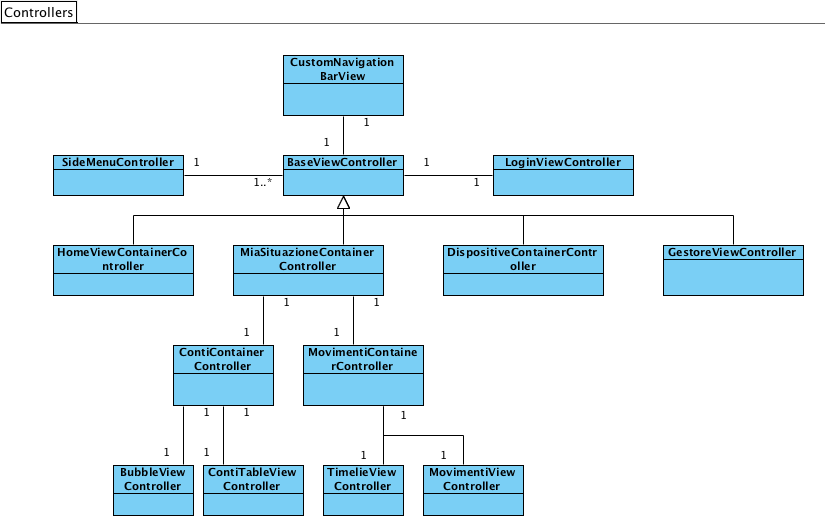
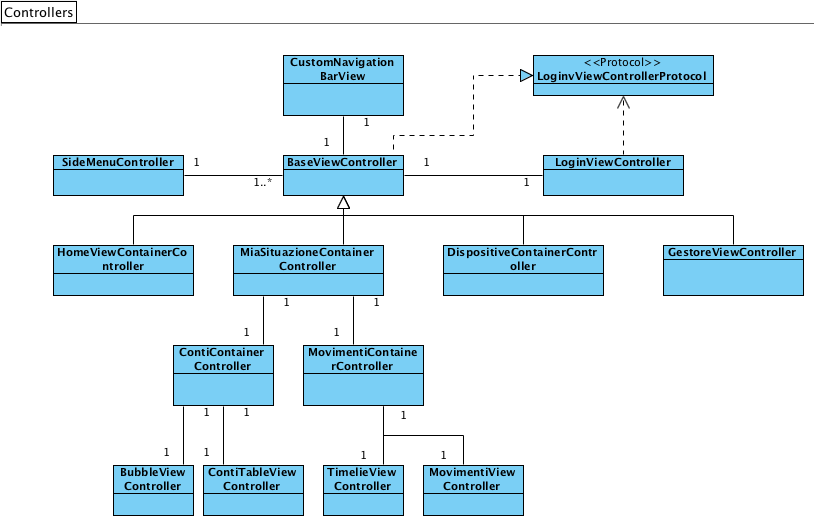
[architettura]

diff --git a/architettura.tex b/architettura.tex
@@ -90,6 +90,12 @@ A tal fine è stato implementato un oggetto singleton, il \texttt{SecurityManage
 
 \subsection{Controller principali}
 Di seguito è riportato il diagramma delle classi rappresentanti i controller principali creati durante la progettazione e lo sviluppo. Per semplicità di esposizione sono stati rappresentati solo i nomi dei controller e le relazioni tra essi.
+\newline
+
+A titolo esemplificativo nel diagramma si può notare che il \texttt{BaseViewController} è il controller principale dal quale gli altri controller ereditano le funzionalità e proprietà generiche. Tale controller si occupa della creazione e visualizzazione degli  elementi grafici comuni a tutte le interfacce (ad esempio la navigation bar personalizzata) e delle logiche necessarie ad ogni controller che lo specializza.
+
+In particolare uno dei compiti principali di questo controller è quello di creare il controller che gestisce l'interfaccia e la logica per il login ai servizi (\texttt{LoginViewController}) e di implementare il protocollo \texttt{LoginViewControllerProtocol} dichiarato dallo stesso LoginViewController. Sarà quindi compito del LoginViewController  lanciare il processo di login e comunicare al BaseViewController l'esito dell'operazione attraverso il protocollo descritto precedentemente; così facendo il BaseViewController sarà in grado di effettuare l'aggiornamento dello stato dell'interfaccia.
+
 
 \newpage
 
